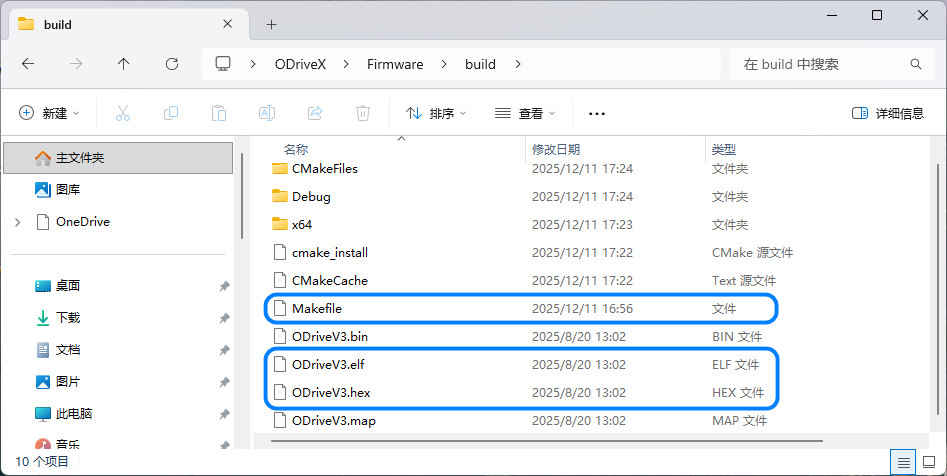
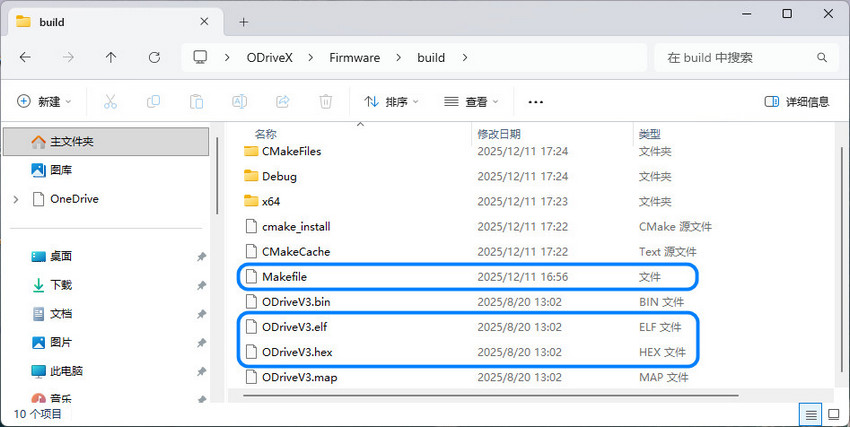
更新 README 文件

diff --git a/README.md b/README.md
@@ -142,7 +142,7 @@ Maximum speed: 8500 rpm
 
 **配置方法：**
 
-用 USB 数据线连接 ODriveX 和 PC，在 PC 用串口调试助手（建议使用 MobaXterm）下发指令配置，常用的 Shell 配置命令实现在这边 [shell_cmd_list.c](./Firmware/ThirdParty/LetterShell/src/shell_cmd_list.c)。
+ODriveX 连接 PC，在 PC 用串口调试助手（建议使用 MobaXterm）下发 Shell 指令修改电机配置，常用的 Shell 命令看 [shell_cmd_list.c](./Firmware/ThirdParty/LetterShell/src/shell_cmd_list.c) 这里。
 
 更深入的配置可以在代码中配置，参数集中在每个对象 class 的 `struct Config_t` 字段，修改它们就会改变配置，例如 Motor 对象：
 
@@ -162,62 +162,151 @@ public:
 }
 ```
 
-## Start-up
+## 关于校准
 
-> ODriveX 初次启动需要校准电机（实际就是测量电机的相电阻和相电感），校准编码器（偏移 Offset 校准）。
+初次启动要校准电机和编码器，校准时电机最好不要携带负载，保证能自由转动。
+
+> ODriveX 连接 PC，在 PC 用串口终端（例如 MobaXterm）或串口调试助手（例如 sscom）向驱动器发送下面的 Shell 指令。
+
+**校准电机**：
+
+```cpp
+odrive:/$ axis_requested_state 0 4 /**< 0 指电机id号*/
+```
+
+校准过程会测量电机相电阻、电机相电感，并根据相电阻相电感自动生成电流环 PI 增益，当听到电机发出 “哔” 声后表示测量完成。
+
+**校准编码器**：
+
+定位编码器索引信号，启动后将开环控制电机朝着一个方向旋转直到检测到索引脉冲信号时停止（找编码器器零点：驱动电机和编码器参考零点位置对齐）。
+
+```cpp
+odrive:/$ axis_requested_state 0 6 /**< 0 指电机id号*/
+```
+
+编码器偏移校准，启动后将开环控制电机朝着一个方向正转一圈然后反方向反转一圈后停止，开环旋转时的电流（扭矩）大小由 motor.config.calibration_current 参数决定。
+
+```cpp
+odrive:/$ axis_requested_state 0 7 /**< 0 指电机id号*/
+```
+
+> 其实这上面这 3 个步骤可以用下面这条指令一步完成
+> 
+> ```cpp
+> odrive:/$ axis_requested_state 0 3 /**< 0 指电机id号*/
+> ```
+
+**设置预校准**：
+
+将电机和编码器的 pre_calibrated 设置为 True，表示电机和编码器已校准，下次重新启动可以不用再次校准。
+
+```cpp
+pre_calibrated 0 1 /**< 0 指电机id号*/
+```
+
+> 注意：即使设置了 **预校准**，对于增量编码器（非绝对值编码器）每次重新启动后都需要编码器索引校准（即：找编码器器零点 INDEX_SEARCH），但不用偏移校准。如果编码器没有索引信号 Z (只有 AB) 则每次重新启动都要编码器偏移校准。
+
+**保存校准结果**：
+
+如果不保存下次启动要再次校准，执行后驱动器将自动检查电机的参数保存并重启。
+
+```cpp
+dev_config "save"
+```
+
+**提示**：
+
+> 每个步骤执行完后用这条指令列出错误信息
+> 
+> odrive:/$ dump_errors 1
+> 
+> 参数 1 指的是列出错误的同时清除错误状态
+
+如果没有错误则电机状态 OK，可以进行后续步骤，出现错误则要根据错误信息分析原因，然后清除错误后重试。
+
+## Start-up
 
 ODriveX 使用时基本的启动流程：
 
-(1) 电机校准（实际就是测量电机的相电阻和相电感）。
+(1) 设置电流，速度限制参数（防止限值太小出现超限错误）。
 
-(2) 搜索定位编码器 index 信号（在编码器偏移校准之前必须先搜索 index）。
+(2) 电机校准（实际就是测量电机的相电阻和相电感）。
 
-(3) 编码器偏移校准（Offset 校准）。
+(3) 搜索定位编码器 index 信号（在编码器偏移校准之前必须先搜索 index）。
 
-(4) 使能闭环状态/开环状态。
+(4) 编码器偏移校准（Offset 校准）。
 
-(5) 设置控制模式（控制模式包含：位置模式，速度模式，电流模式）。和 (4) 结合起来就得到，位置闭环控制模式，速度闭环控制模式，电流闭环控制模式。
+(5) 使能闭环状态/开环状态。
 
-(6) 设置控制模式目标值（位置值，速度值，电流值）来调节电机运行状态。
+(6) 设置控制模式（控制模式包含：位置模式，速度模式，电流模式）。和 (4) 结合起来就得到，位置闭环控制模式，速度闭环控制模式，电流闭环控制模式。
 
-(7) 电机因异常停止后清除错误重新使能进入闭环状态即可。
+(7) 设置控制模式目标值（位置值，速度值，电流值）来调节电机运行状态。
 
-**对应操作命令：**
+(8) 电机因异常停止后清除错误重新使能进入闭环状态即可。
 
-用 USB 数据线连接 ODriveX 和 PC，在 PC 用串口调试助手（建议使用 MobaXterm）下发下列指令即可（注意浮点参数需要包含双引号）。
+**对应操作命令：（注意浮点参数需要包含双引号）**
 
 ```cpp
 (1) 设置最大负电流
 odrive:/$ dc_max_negative_current "-2.0"
 
 (2) 设置速度限制 50 turn/s
-odrive:/$ controller_config_vel_limit 0 "50.0"
+odrive:/$ controller_config_vel_limit 0 "50.0" /**< 0 指电机id号*/
 
 (3) 设置电机 0 进入校准状态
-odrive:/$ axis_requested_state 0 3
+odrive:/$ axis_requested_state 0 3 /**< 0 指电机id号*/
 
 (4) 设置电机 0 进入力矩控制模式
-odrive:/$ controller_config_control_mode 0 1
+odrive:/$ controller_config_control_mode 0 1 /**< 0 指电机id号*/
 
 (5) 设置电机 0 控制力矩
-odrive:/$ controller_input_torque 0 "0.02"
+odrive:/$ controller_input_torque 0 "0.02" /**< 0 指电机id号*/
 
 (6) 进入闭环
-odrive:/$ axis_requested_state 0 8
+odrive:/$ axis_requested_state 0 8 /**< 0 指电机id号*/
 
 (7) 如果发生错误，可以打印当前错误并清除错误状态
 odrive:/$ dump_errors 1
 ```
 
-以上也是电机运行起来必要的 Shell 指令，保存过校准参数的电机可以跳过发送校准指令。
+以上也是电机运行起来必要的 Shell 指令，保存过校准参数的电机可以跳过 `(3)` 这一步。
 
 ## Shell Command
 
-Shell 交互命令实现位于 [ThirdParty/LetterShell/src/shell_cmd_list.c](ThirdParty/LetterShell/src/shell_cmd_list.c) 文件，具体可查看这个文件。
+我移植了 Letter shell，让 ODriveX 可以像 Linux 一样使用 Shell 命令操作，Shell 支持配置电机参数，读写参数变量，或实时 PID 调参。
+
+> Letter shell 是一个可以嵌入在程序中的嵌入式 Shell，面向嵌入式设备，以 C 语言函数为运行单位，可以通过命令行调用，运行程序中的函数。
+
+具体命令在 [ThirdParty/LetterShell/src/shell_cmd_list.c](./Firmware/ThirdParty/LetterShell/src/shell_cmd_list.c) 这里定义，具体可以看这个文件。
 
 ## CAN Protocols
 
-CAN 控制协议实现分别位于 [communication/can/odrive_can.cpp](communication/can/odrive_can.cpp) 文件，具体可查看这个文件。
+ODriveX 支持 CAN 通信方式，最高支持 1MBps 波特率。
+
+CAN 报文格式定义如下：
+
+![image.png](./Image/Can-Message.jpg)
+
+CAN 报文通常三个参数，Motor id 占用一个字节，参数 1 占用 4 个字节，参数 2 占用 3 个字节，由于参数 2 只有 3 个字节所以无法直接传递浮点数，要用整数量化浮点数。
+
+> 其实 Motor id 不必占用一个字节，用 3 位 表示即可，虽然节约位数，但这样一来后面表示浮点参数的位数会变得非常割裂，取值要位操作可读性差。
+
+在下发控制报文时，需要把目标值的浮点数转为整形填入报文，参考转换方法如下，需要传入范围值与目标值，以及数据占用的位数。
+
+```cpp
+uint32_t ODriveCAN::fto_i(float x, float x_min, float x_max, uint8_t bits)
+{
+    float span = x_max - x_min; /*浮点范围*/
+    float ref = x_min; /*输入范围起点*/
+
+    if (x < x_min) x = x_min;
+    else if (x > x_max) x = x_max;
+
+    return (uint32_t)((x - ref) * ((float)((1 << bits) - 1)) / span);
+}
+```
+
+具体指令在 [communication/can/odrive_can.cpp](./Firmware/communication/can/odrive_can.cpp) 这里定义，具体可以看这个文件。
 
 ## 其他
 
